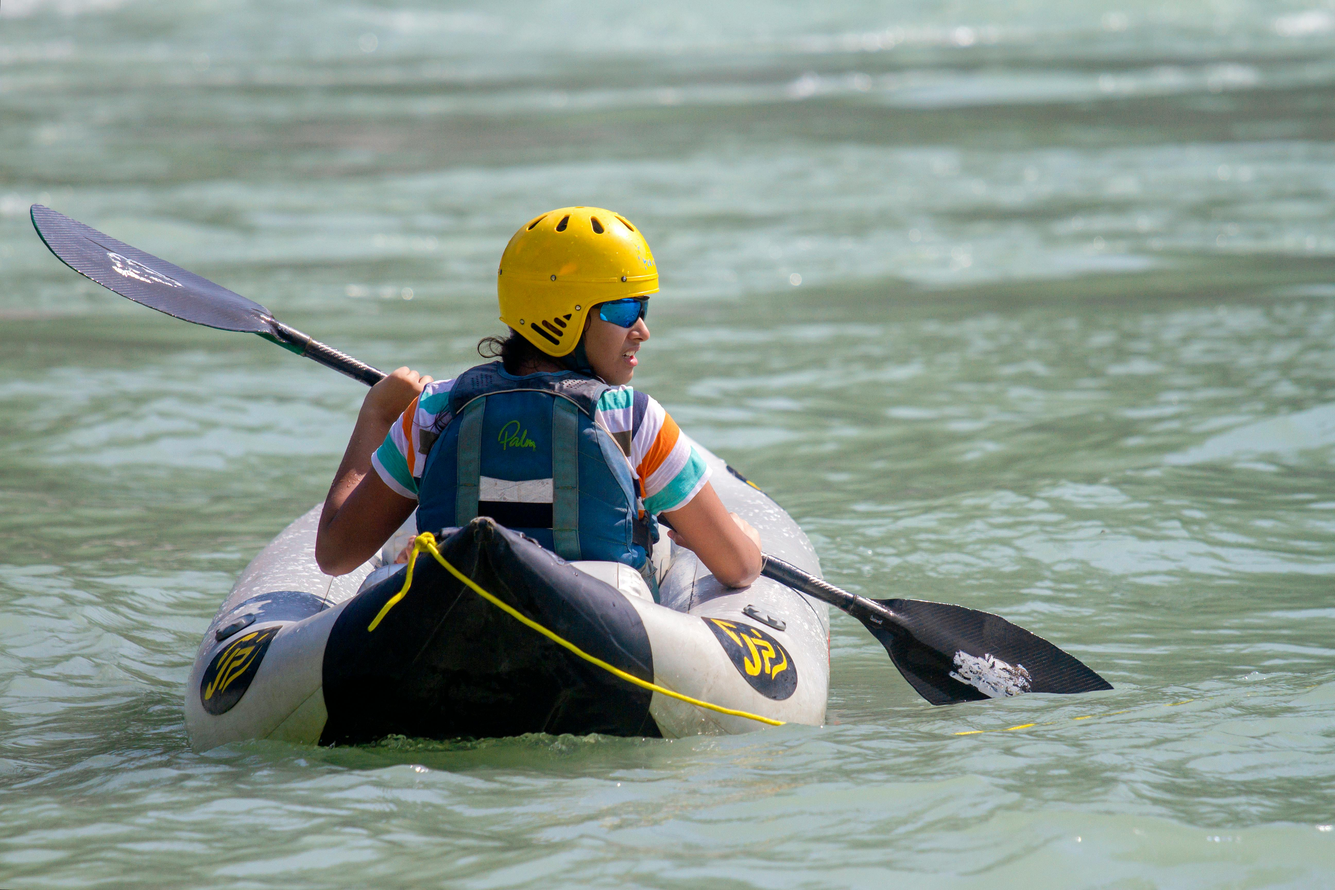
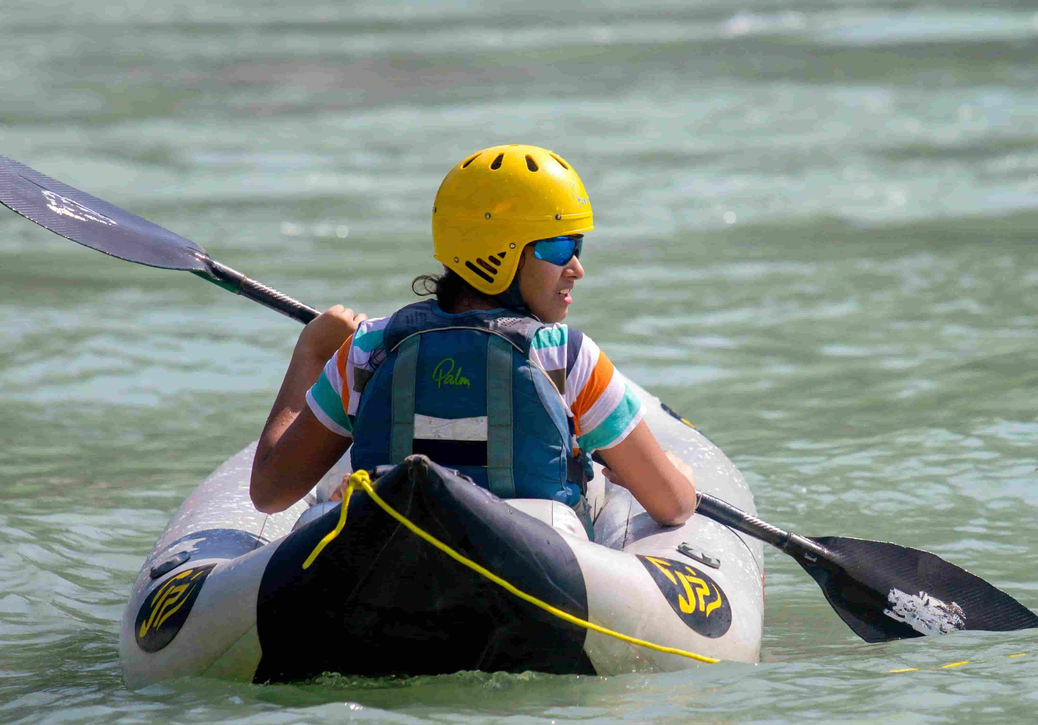
audit

diff --git a/wwr/contato.html b/wwr/contato.html
@@ -120,7 +120,7 @@
         © 2026 White Water Rafting | Katherine Montanhaur
     </p>
 
-    <nav class="socialmedia">
+    <nav class="redes-sociais">
 
         <a href="https://facebook.com">
             <img src="imagens/facebook.svg" alt="Ícone do Facebook">

diff --git a/wwr/estilos/rafting.css b/wwr/estilos/rafting.css
@@ -153,12 +153,12 @@ footer {
     margin-top: 20px;
 }
 
-.socialmedia {
+.redes-sociais {
     display: flex;
     gap: 10px;
 }
 
-.socialmedia img {
+.redes-sociais img {
     width: 40px;
     height: auto;
 }
